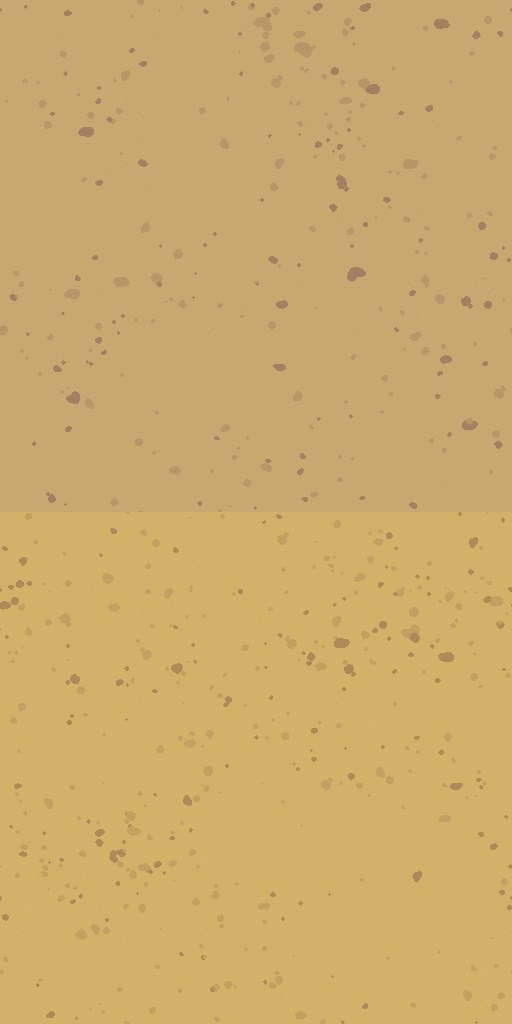
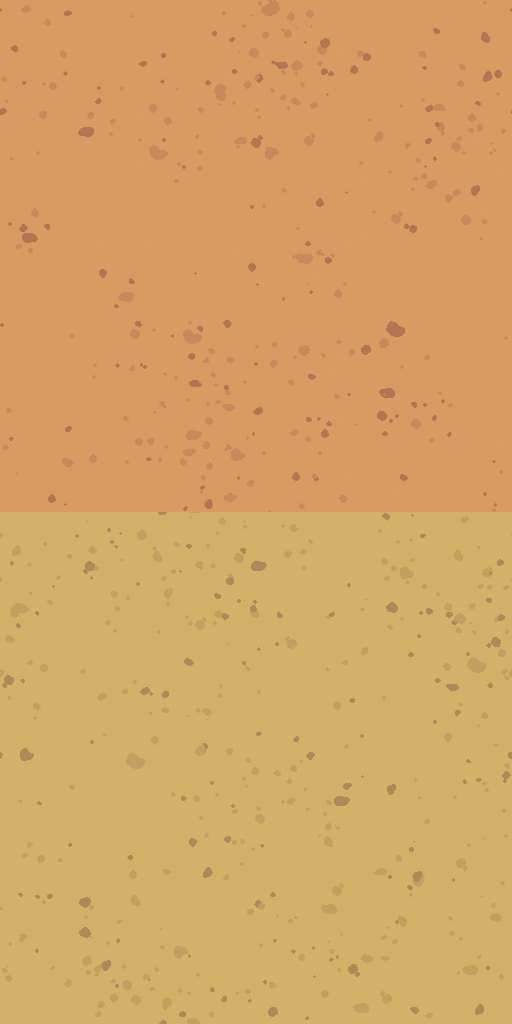
Give the badlands orange sand, and derive it by hue rotation
The badlands floor was baked at the game's old tan #c8a870, which was the wrong
call: it treated the badlands as a separate palette when it is the same sand
under a redder sun. Both terrains now come from the pack's one sand colour, and
the badlands is a hue rotation of it.

The tool takes `hue` and `sat` per terrain instead of a hardcoded base colour.
Base and mottling rotate together in HLS with lightness untouched, so the
contrast the artist drew survives the shift rather than flattening the way a
flat RGB offset does.

-13 degrees, at 1.12x saturation, giving #d89b62. Picked by rendering -6, -13,
-20 and -28 into the real badlands beside BL.REDROCK and BL.MESA rather than
judging the swatch alone: -6 is not distinguishable from tan, and from -20 the
sand turns salmon and competes with the rock instead of sitting under it.

Each terrain's baked base is now written into ground.json, so the value the
game needs is recorded rather than inferred from the tool source.

Moved every badlands colour that has to agree with the texture: BL_TC entry,
the minimap colour, the minimap RGB triple, the painted fallback fill, and the
_blBase() depth fallback that overlay tiles sample. Missing one of those shows
up as a tile whose edge does not match its neighbour.

Verified in Chromium: 120 sand draws on the overworld, 2854 dust draws in the
badlands, zero fallbacks, no page errors.

Claude-Session: https://claude.ai/code/session_01QbMFr5Qzxc6dkx9AwjAMho

diff --git a/index.html b/index.html
@@ -13400,7 +13400,8 @@ const BL_SOLID = new Set([BL.MESA, BL.CANYON, BL.OUTPOST_WALL, BL.SETTLEMENT_WAL
 const BL_TC = {
   [BL.CRACKED]:   ['#a06840','#8a5830'],
   [BL.REDROCK]:   ['#c05030','#a04020'],
-  [BL.DUSTFLOOR]: ['#c8a870','#b89860'],
+  [BL.DUSTFLOOR]: ['#d89b62','#c68a55'],  // orange-shifted sand, matching
+                                          // the baked texture
   [BL.DEADWOOD]:  ['#7a6040','#6a5030'],
   [BL.SKULL_ROCK]:['#706060','#605050'],
   [BL.MESA]:      ['#b04828','#983820'],
@@ -17876,7 +17877,7 @@ const MINIMAP_TILE_COLORS = {
 };
 // Badlands tile colors for minimap (merged here so numeric keys are available)
 Object.assign(MINIMAP_TILE_COLORS, {
-  [BL.CRACKED]:'#a06840',    [BL.REDROCK]:'#a04020',   [BL.DUSTFLOOR]:'#c8a870',
+  [BL.CRACKED]:'#a06840',    [BL.REDROCK]:'#a04020',   [BL.DUSTFLOOR]:'#d89b62',
   [BL.DEADWOOD]:'#7a6040',   [BL.SKULL_ROCK]:'#605050',[BL.MESA]:'#b04828',
   [BL.CANYON]:'#200e08',     [BL.SULFUR]:'#c0a020',    [BL.TUMBLEWEED]:'#9a8050',
   [BL.OUTPOST]:'#806050',    [BL.OUTPOST_WALL]:'#603020',
@@ -17941,7 +17942,7 @@ function renderMinimap() {
     const mpx = img.data;
     const scaleX = MM_W / BL_W, scaleY = MM_H / BL_H;
     const BL_MM_COLOR = {
-      [BL.CRACKED]:[160,104,64],[BL.REDROCK]:[192,80,48],[BL.DUSTFLOOR]:[200,168,112],
+      [BL.CRACKED]:[160,104,64],[BL.REDROCK]:[192,80,48],[BL.DUSTFLOOR]:[216,155,98],
       [BL.DEADWOOD]:[122,96,64],[BL.SKULL_ROCK]:[96,80,80],[BL.MESA]:[176,72,40],
       [BL.CANYON]:[32,14,8],[BL.SULFUR]:[212,180,48],[BL.TUMBLEWEED]:[154,128,80],
       [BL.OUTPOST]:[128,96,80],[BL.OUTPOST_WALL]:[96,48,32],
@@ -22223,7 +22224,7 @@ function drawBLTile(tx,ty,sx,sy) {
       if(!overlays.has(nt)&&BL_TC[nt]) return BL_TC[nt][0];
     }
     // Fallback by depth zone
-    if(tx<25) return '#c8a870'; // entry dustfloor
+    if(tx<25) return '#d89b62'; // entry dustfloor
     if(tx<45) return '#b89050'; // midlands cracked
     return '#686058'; // deep ash
   }
@@ -22261,8 +22262,8 @@ function drawBLTile(tx,ty,sx,sy) {
     // Real sand from the desert pack, retinted to the badlands' own tan.
     if(DHGround.draw(ctx,'dust',sx,sy,tx,ty)) return;
     // Sandy dust — warm tan with wind-streak texture
-    ctx.fillStyle='#c8a870'; ctx.fillRect(sx,sy,T,T);
-    ctx.fillStyle='#b89860'; ctx.fillRect(sx,sy,T,T/2); // slight horizon split
+    ctx.fillStyle='#d89b62'; ctx.fillRect(sx,sy,T,T);
+    ctx.fillStyle='#c68a55'; ctx.fillRect(sx,sy,T,T/2); // slight horizon split
     // Wind streaks — 2-3 per tile, stable
     ctx.fillStyle='rgba(180,150,90,.22)';
     if(h%5<3){ ctx.fillRect(sx+(h%10)+2,sy+(h2%8)+4,8+h%6,1); }

diff --git a/tools/build_ground.py b/tools/build_ground.py
@@ -25,6 +25,7 @@ Usage:
   ./tools/build_ground.py /path/to/deserttilesettopdownpixelart
 """
 
+import colorsys
 import json
 import random
 import sys
@@ -48,18 +49,20 @@ TONE_DARK = (174, 138, 90)
 TONE_SOFT = (194, 160, 98)
 PACK_SAND = (210, 178, 104)   # the pack's own flat ground colour
 
-# base     — the flat colour under everything
+# hue      — degrees to rotate the pack's sand by; negative goes toward orange
+# sat      — saturation multiplier
 # clusters — patches of mottling; sand clumps, it does not speckle evenly
 # per      — blobs dropped around each cluster centre
 # spread   — how far from the centre they land, in pixels
 # loose    — extra blobs strewn uniformly, to keep the gaps from reading as bald
 #
-# DUSTFLOOR keeps the game's established badlands colour rather than the pack's,
-# so the badlands does not shift hue; the blobs are re-tinted by the same delta
-# to preserve the contrast the artist drew.
+# Both terrains are the same sand. The badlands is the same grains under a
+# redder sun, so it is a hue rotation of the pack's colour rather than a
+# separate palette — base and mottling rotate together, which keeps the
+# contrast the artist drew instead of flattening it.
 TERRAINS = {
-    "sand": {"base": PACK_SAND,       "clusters": 26, "per": 14, "spread": 34, "loose": 90},
-    "dust": {"base": (200, 168, 112), "clusters": 20, "per": 12, "spread": 38, "loose": 70},
+    "sand": {"hue":   0, "sat": 1.00, "clusters": 26, "per": 14, "spread": 34, "loose": 90},
+    "dust": {"hue": -13, "sat": 1.12, "clusters": 22, "per": 13, "spread": 38, "loose": 78},
 }
 
 
@@ -115,18 +118,29 @@ def tone_of(blob):
     return "soft"
 
 
-def retint(blob, delta):
-    if delta == (0, 0, 0):
+def shift(rgb, hue, sat):
+    """Rotate a colour's hue and scale its saturation, leaving brightness alone."""
+    h, l, s = colorsys.rgb_to_hls(*(c / 255 for c in rgb))
+    h = (h + hue / 360.0) % 1.0
+    s = max(0.0, min(1.0, s * sat))
+    return tuple(round(c * 255) for c in colorsys.hls_to_rgb(h, l, s))
+
+
+def retint(blob, hue, sat):
+    if hue == 0 and sat == 1.0:
         return blob
     out = blob.copy()
     px = out.load()
+    cache = {}
     for y in range(out.size[1]):
         for x in range(out.size[0]):
             r, g, b, a = px[x, y]
-            if a:
-                px[x, y] = (max(0, min(255, r + delta[0])),
-                            max(0, min(255, g + delta[1])),
-                            max(0, min(255, b + delta[2])), a)
+            if not a:
+                continue
+            key = (r, g, b)
+            if key not in cache:
+                cache[key] = shift(key, hue, sat)
+            px[x, y] = cache[key] + (a,)
     return out
 
 
@@ -140,15 +154,15 @@ def stamp_wrapped(canvas, blob, x, y):
 
 
 def bake(name, cfg, pools, rng):
-    base = cfg["base"]
-    delta = tuple(base[i] - PACK_SAND[i] for i in range(3))
+    hue, sat = cfg["hue"], cfg["sat"]
+    base = shift(PACK_SAND, hue, sat)
     canvas = Image.new("RGBA", (PERIOD, PERIOD), base + (255,))
 
     def drop(tone, x, y):
         pool = pools[tone]
         if not pool:
             return 0
-        blob = retint(rng.choice(pool), delta)
+        blob = retint(rng.choice(pool), hue, sat)
         if rng.random() < 0.5:
             blob = blob.transpose(Image.FLIP_LEFT_RIGHT)
         if rng.random() < 0.5:
@@ -176,8 +190,8 @@ def bake(name, cfg, pools, rng):
         tone = "dark" if rng.random() < 0.25 else "soft"
         placed += drop(tone, rng.randrange(PERIOD), rng.randrange(PERIOD))
 
-    log(f"  {name:6s} base rgb{base}  {placed} blobs "
-        f"({cfg['clusters']} patches + {cfg['loose']} loose)")
+    log(f"  {name:6s} hue{hue:+4d} sat x{sat:.2f} -> #{base[0]:02x}{base[1]:02x}{base[2]:02x}"
+        f"  {placed} blobs ({cfg['clusters']} patches + {cfg['loose']} loose)")
     return canvas
 
 
@@ -203,8 +217,11 @@ def main():
     sheet = Image.new("RGBA", (PERIOD, PERIOD * len(names)), (0, 0, 0, 0))
     meta = {}
     for i, name in enumerate(names):
-        sheet.paste(bake(name, TERRAINS[name], pools, rng), (0, i * PERIOD))
-        meta[name] = {"oy": i * PERIOD}
+        cfg = TERRAINS[name]
+        sheet.paste(bake(name, cfg, pools, rng), (0, i * PERIOD))
+        base = shift(PACK_SAND, cfg["hue"], cfg["sat"])
+        meta[name] = {"oy": i * PERIOD,
+                      "base": "#%02x%02x%02x" % base}
 
     OUT.mkdir(parents=True, exist_ok=True)
     sheet.convert("RGB").save(OUT / "ground.png", optimize=True)

diff --git a/docs/ART-PIPELINE.md b/docs/ART-PIPELINE.md
@@ -398,17 +398,29 @@ speckling, which is the one thing sand never looks like.
 
 ### Terrains
 
-| Name | Tile | Base |
-|---|---|---|
-| `sand` | `TL.SAND` | the pack's own `rgb(210,178,104)` |
-| `dust` | `BL.DUSTFLOOR` | the game's badlands tan `#c8a870` |
+Both are the same sand. The badlands is the same grains under a redder sun, so
+it is a **hue rotation** of the pack's colour rather than a second palette —
+base and mottling rotate together, which keeps the contrast the artist drew
+instead of flattening it.
 
-`dust` keeps the game's established colour rather than the pack's so the
-badlands does not shift hue, and the blobs are re-tinted by the same delta to
-preserve the contrast the artist drew.
+| Name | Tile | Hue | Sat | Base |
+|---|---|---|---|---|
+| `sand` | `TL.SAND` | — | — | `#d2b268` — the pack's own sand |
+| `dust` | `BL.DUSTFLOOR` | −13° | ×1.12 | `#d89b62` — orange-shifted |
 
-`TC[TL.SAND]` and the minimap colour were moved to the pack's sand so the
-painted fallback, the minimap and the baked texture all agree.
+−13° was picked against the badlands' own red rock, not in isolation. −6° is
+not distinguishable from tan; from −20° the sand turns salmon and starts
+competing with `BL.REDROCK` and `BL.MESA` instead of sitting under them. To
+retune, change `hue`/`sat` in `TERRAINS` and rebuild — nothing else needs to
+move.
+
+Each terrain's baked base colour is written into `ground.json`, so the value
+the game needs is never guessed from the tool source.
+
+The game's own colour tables were moved to match the baked textures, so the
+painted fallback, the minimap and the texture all agree: `TC[TL.SAND]`, and for
+the badlands `BL_TC[BL.DUSTFLOOR]`, the minimap entry, the minimap RGB triple
+and the `_blBase()` depth fallback.
 
 Both call sites keep their painted branch, so a missing texture changes nothing.
 `DHGround.init` also refuses a texture baked for a different tile size rather
